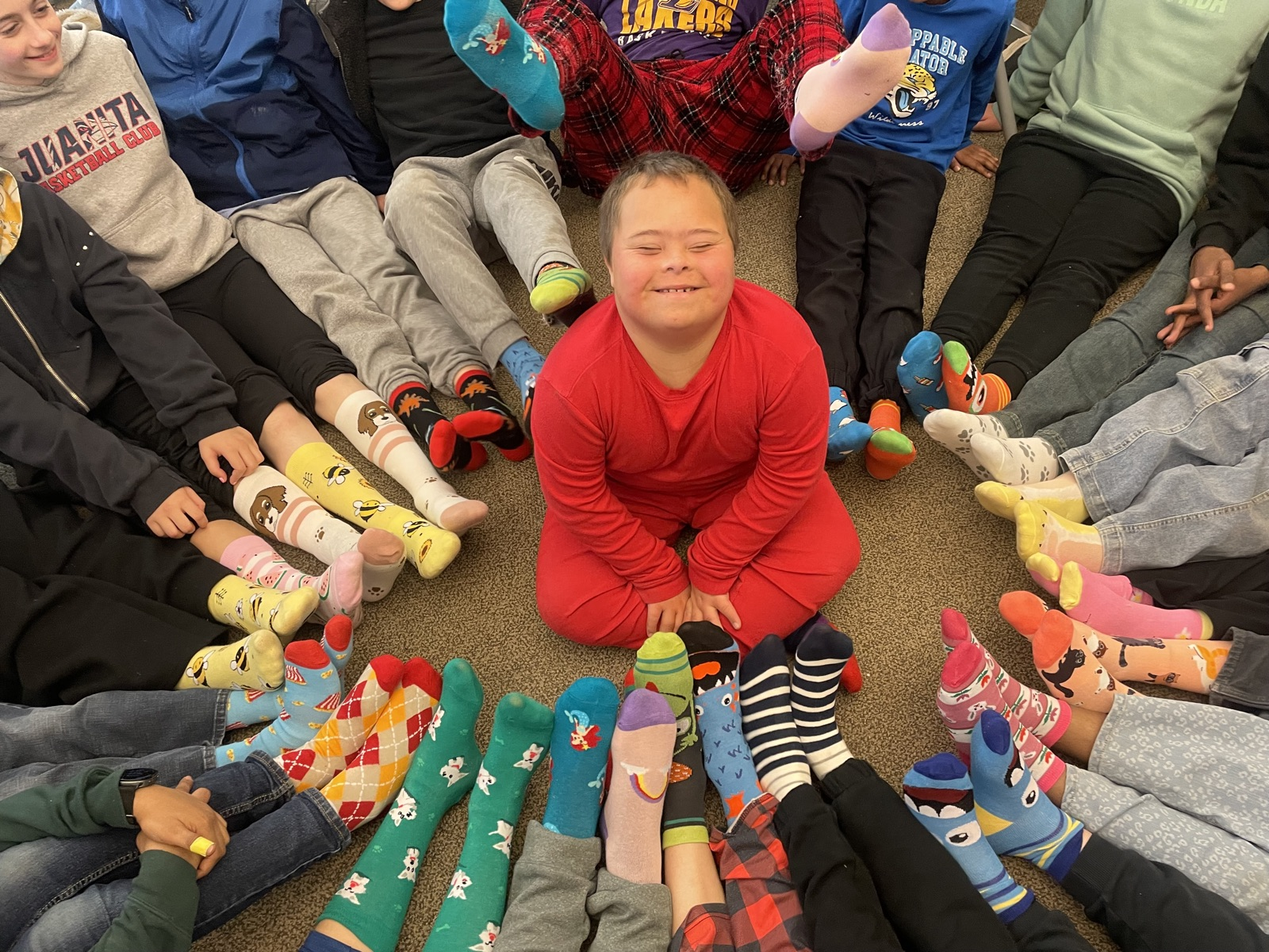
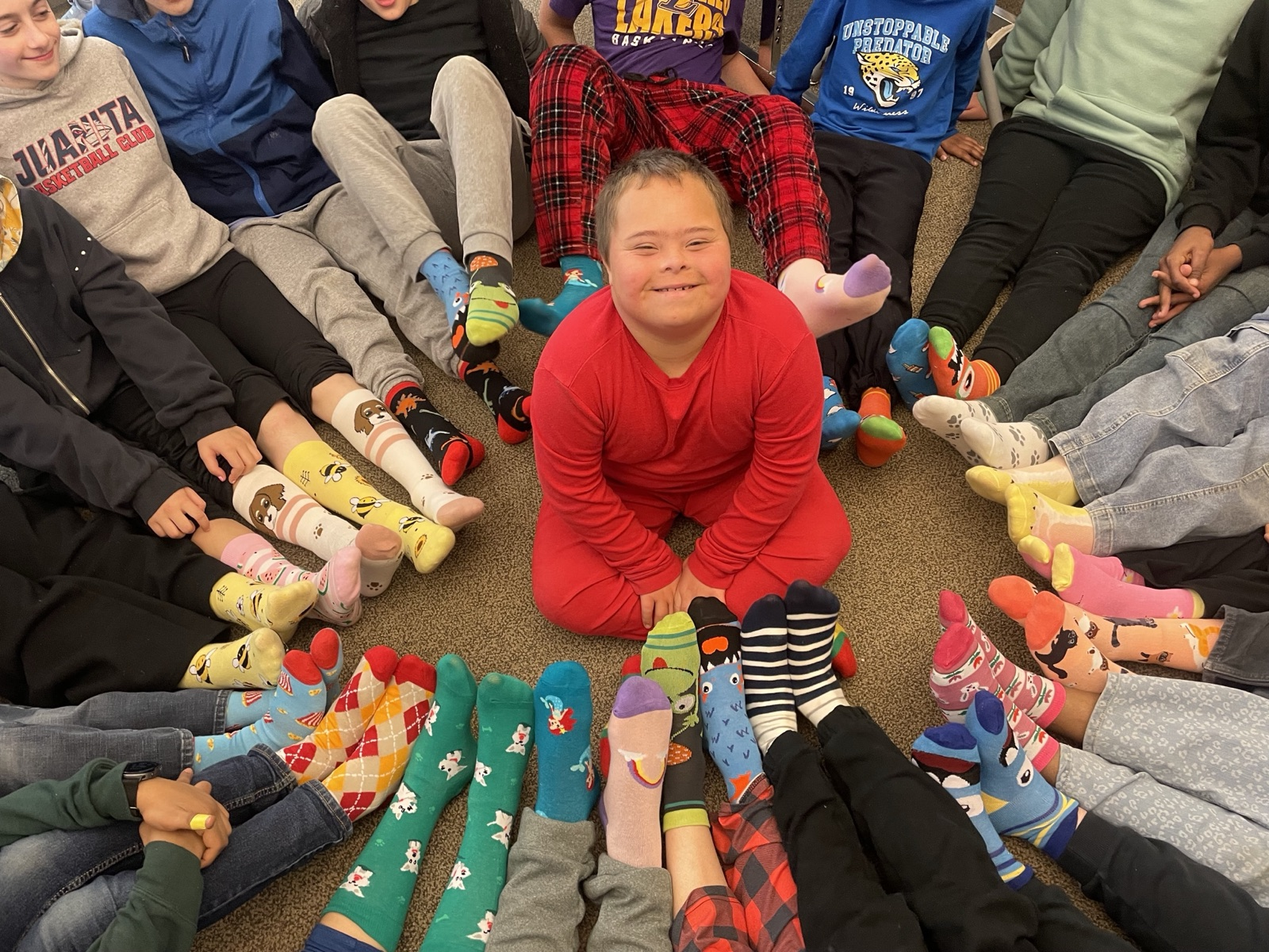
feat: joy jar copy, new hero photo, one-line ripples counter
- Jar overlay says joy instead of hope; the write form asks "Share your joyful moment!".
  Ids and selectors keep "hope" so the #share-a-hope card link still works. New test guards visible copy.
- socks-circle.jpg replaced with the new circle photo (IMG_4812, 1600x1200); also shows in the story and on Events.
- Hero counter reads "ripples of joy" and no longer wraps on phones (white-space: nowrap on .tap p).

diff --git a/index.html b/index.html
@@ -38,7 +38,7 @@
         <div id="sj-rings" class="rings" aria-hidden="true"></div>
         <button id="sj-heart" type="button" aria-label="Tap to send a ripple of joy"><img src="assets/img/heart.png" alt=""></button>
       </div>
-      <p aria-live="polite"><b id="sj-count">1,284</b> ripples of joy so far</p>
+      <p aria-live="polite"><b id="sj-count">1,284</b> ripples of joy</p>
     </div>
   </div>
 </section>
@@ -107,16 +107,16 @@ dialog.skin-3{background:white;border-radius:32px}.skin-3 .modal-header h1{font-
 
 </style>
 <div class="sjc-launch" hidden><button type="button" class="pill launch">I have something to share ↗</button></div>
-<dialog id="modal" class="mode-2 skin-1 flow-2" aria-labelledby="title"><button class="close" aria-label="Close hope jar">×</button><header class="modal-header"><h1 id="title">A little hope goes a long way.</h1><p id="subtitle">Leave a little hope. Find a little joy. There’s room for yours here.</p></header>
-<div class="content"><section class="jar-side" aria-label="Community hope jar"><h2>A jar full of possibility.</h2><p class="hint">Pick a heart. Discover a little hope.</p><div class="scene" id="scene"><svg class="jar-outline" viewBox="0 0 260 285" aria-hidden="true"><path d="M57 40 L57 25 Q58 19 68 19 L194 19 Q203 19 203 27 L203 40 Z M63 41 L63 62 C63 75 30 78 29 104 L29 238 Q29 269 60 269 L200 269 Q232 269 232 238 L232 104 C232 78 197 76 197 62 L197 41"/><path d="M54 30 L205 30"/><path class="shine" d="M44 112 L44 150 M44 163 L44 173"/></svg><div id="hearts"></div><span class="jar-wordmark">shared hopes</span></div><div class="readout" aria-live="polite" aria-atomic="true"><blockquote id="quote">“A world where everyone feels invited.”</blockquote><small id="attribution"></small><span class="mini-heart" aria-hidden="true">♥</span></div><button class="pill compose-toggle" id="compose">Add your hope ♥</button></section>
-<section class="write-side" aria-label="Write a hope"><div id="form-content"><h2>What’s your hope?</h2><p class="intro">For yourself, for someone you love, or for the world. Big or small, it belongs here.</p><form id="hope-form"><label class="field-label" for="person-name">Your name</label><input id="person-name" name="name" type="text" required maxlength="50" autocomplete="given-name" placeholder="First name or chosen name"><p class="name-help">This name will appear with your hope.</p><label class="field-label" for="hope">Your hope</label><div class="textarea-wrap"><textarea id="hope" maxlength="180" placeholder="Everyone finds a place they feel they belong." required></textarea><span class="counter" id="counter">0 / 180</span></div><p class="error" id="error" role="alert" hidden></p><button class="pill submit" type="submit">Add my hope to the jar ♥</button><p class="help">Keep it kind and leave out personal details.</p></form></div><div class="success" id="success" role="status" tabindex="-1" hidden><h3>Your hope has found a home. ♥</h3><p>Tap your heart to read your name and message.</p><button class="text-button" id="see-heart">Find my heart</button><button class="text-button" id="write-another">Leave another hope</button></div></section></div></dialog>
+<dialog id="modal" class="mode-2 skin-1 flow-2" aria-labelledby="title"><button class="close" aria-label="Close joy jar">×</button><header class="modal-header"><h1 id="title">A little joy goes a long way.</h1><p id="subtitle">Leave a little joy. Find a little more. There’s room for yours here.</p></header>
+<div class="content"><section class="jar-side" aria-label="Community joy jar"><h2>A jar full of possibility.</h2><p class="hint">Pick a heart. Discover a little joy.</p><div class="scene" id="scene"><svg class="jar-outline" viewBox="0 0 260 285" aria-hidden="true"><path d="M57 40 L57 25 Q58 19 68 19 L194 19 Q203 19 203 27 L203 40 Z M63 41 L63 62 C63 75 30 78 29 104 L29 238 Q29 269 60 269 L200 269 Q232 269 232 238 L232 104 C232 78 197 76 197 62 L197 41"/><path d="M54 30 L205 30"/><path class="shine" d="M44 112 L44 150 M44 163 L44 173"/></svg><div id="hearts"></div><span class="jar-wordmark">shared joy</span></div><div class="readout" aria-live="polite" aria-atomic="true"><blockquote id="quote">“A world where everyone feels invited.”</blockquote><small id="attribution"></small><span class="mini-heart" aria-hidden="true">♥</span></div><button class="pill compose-toggle" id="compose">Add your joy ♥</button></section>
+<section class="write-side" aria-label="Share a joyful moment"><div id="form-content"><h2>Share your joyful moment!</h2><p class="intro">For yourself, for someone you love, or for the world. Big or small, it belongs here.</p><form id="hope-form"><label class="field-label" for="person-name">Your name</label><input id="person-name" name="name" type="text" required maxlength="50" autocomplete="given-name" placeholder="First name or chosen name"><p class="name-help">This name will appear with your joyful moment.</p><label class="field-label" for="hope">Your joyful moment</label><div class="textarea-wrap"><textarea id="hope" maxlength="180" placeholder="Everyone finds a place they feel they belong." required></textarea><span class="counter" id="counter">0 / 180</span></div><p class="error" id="error" role="alert" hidden></p><button class="pill submit" type="submit">Add my joy to the jar ♥</button><p class="help">Keep it kind and leave out personal details.</p></form></div><div class="success" id="success" role="status" tabindex="-1" hidden><h3>Your joy has found a home. ♥</h3><p>Tap your heart to read your name and message.</p><button class="text-button" id="see-heart">Find my heart</button><button class="text-button" id="write-another">Share another joyful moment</button></div></section></div></dialog>
 `;
 
 const $=s=>root.querySelector(s);let mode=2,flow=2,lastHeart=null,opener=null,busy=false;// Starter hopes: add or edit {text, name} here. Leave name '' for no caption; use the writer's real name once they agree.
 const messages=[{text:'A world where everyone feels invited.',name:''},{text:'More places where we can just be ourselves.',name:''},{text:'A friend to share the little victories with.',name:''},{text:'That kindness becomes an everyday habit.',name:''},{text:'A seat at the table for everyone.',name:''},{text:'More time with the people who make us smile.',name:''},{text:'That someone feels less alone today.',name:''},{text:'A little courage to try something new.',name:''}];
 const path='<svg viewBox="0 0 100 100" aria-hidden="true"><path d="M49 90C40 78 5 51 9 28C13 4 36 9 48 28C62 4 86 5 92 25C100 49 65 78 49 90Z"/></svg>';const spots=[[49,85,-14],[105,81,9],[158,92,18],[64,135,13],[125,137,-15],[43,189,-12],[101,193,9],[159,187,17]];
 function showMessage(i){$('#quote').textContent='“'+messages[i].text+'”';$('#attribution').textContent=messages[i].name||'';root.querySelectorAll('.heart').forEach(b=>b.setAttribute('aria-pressed',Number(b.dataset.index)===i));}
-function addHeart(i,animate=false){let p=spots[i]||[57+((i-8)%3)*52,111+Math.floor((i-8)%6/3)*60,((i%3)-1)*15];let b=document.createElement('button');b.type='button';b.className='heart'+(animate?' new':'');b.dataset.index=i;b.style.cssText=`left:${p[0]}px;top:${p[1]}px;--x:${p[0]}px;--y:${p[1]}px;--r:${p[2]}deg`;b.innerHTML=path;b.setAttribute('aria-label',messages[i].name?'Read the hope from '+messages[i].name:'Read community hope '+(i+1));b.setAttribute('aria-pressed','false');b.onclick=()=>showMessage(i);$('#hearts').append(b);return b}messages.forEach((m,i)=>addHeart(i));
+function addHeart(i,animate=false){let p=spots[i]||[57+((i-8)%3)*52,111+Math.floor((i-8)%6/3)*60,((i%3)-1)*15];let b=document.createElement('button');b.type='button';b.className='heart'+(animate?' new':'');b.dataset.index=i;b.style.cssText=`left:${p[0]}px;top:${p[1]}px;--x:${p[0]}px;--y:${p[1]}px;--r:${p[2]}deg`;b.innerHTML=path;b.setAttribute('aria-label',messages[i].name?'Read the joyful moment from '+messages[i].name:'Read community joyful moment '+(i+1));b.setAttribute('aria-pressed','false');b.onclick=()=>showMessage(i);$('#hearts').append(b);return b}messages.forEach((m,i)=>addHeart(i));
 function openModal(source){if(!$('#modal').open){opener=source;$('#modal').showModal();}$('.close').focus()}
 root.querySelectorAll('.launch').forEach(b=>b.onclick=()=>openModal(b));$('.close').onclick=()=>$('#modal').close();$('#modal').addEventListener('close',()=>{opener?.focus()});$('#modal').addEventListener('click',e=>{if(e.target===$('#modal')){let r=$('#modal').getBoundingClientRect();if(e.clientX<r.left||e.clientX>r.right||e.clientY<r.top||e.clientY>r.bottom)$('#modal').close()}});
 
@@ -141,13 +141,13 @@ async function dropIntoJar(heart){
 $('#hope-form').onsubmit=async e=>{
  e.preventDefault();if(busy)return;
  const text=$('#hope').value.trim(),name=$('#person-name').value.trim();
- if(!name||!text){$('#error').textContent=!name?'Please enter a name to go with your hope.':'Please write a hope before adding your heart.';$('#error').hidden=false;(!name?$('#person-name'):$('#hope')).focus();return}
+ if(!name||!text){$('#error').textContent=!name?'Please enter a name to go with your joyful moment.':'Please share a joyful moment before adding your heart.';$('#error').hidden=false;(!name?$('#person-name'):$('#hope')).focus();return}
  busy=true;$('.submit').disabled=true;
  messages.push({text,name});lastHeart=messages.length-1;
  $('#form-content').hidden=true;$('#success').hidden=true;
  $('#modal').classList.add('celebrating');
  if(flow===1)$('#modal').classList.remove('composing');
- $('#quote').textContent='A little more hope is on its way…';$('#attribution').textContent='Adding your heart';
+ $('#quote').textContent='A little more joy is on its way…';$('#attribution').textContent='Adding your heart';
  const heart=addHeart(lastHeart,false);heart.style.visibility='hidden';
  await new Promise(resolve=>requestAnimationFrame(()=>requestAnimationFrame(resolve)));
  $('#scene').scrollIntoView({block:'center',behavior:'instant'});

diff --git a/home-page/5-your-turn-block.html b/home-page/5-your-turn-block.html
@@ -54,16 +54,16 @@ dialog.skin-3{background:white;border-radius:32px}.skin-3 .modal-header h1{font-
 
 </style>
 <div class="sjc-launch" hidden><button type="button" class="pill launch">I have something to share ↗</button></div>
-<dialog id="modal" class="mode-2 skin-1 flow-2" aria-labelledby="title"><button class="close" aria-label="Close hope jar">×</button><header class="modal-header"><h1 id="title">A little hope goes a long way.</h1><p id="subtitle">Leave a little hope. Find a little joy. There’s room for yours here.</p></header>
-<div class="content"><section class="jar-side" aria-label="Community hope jar"><h2>A jar full of possibility.</h2><p class="hint">Pick a heart. Discover a little hope.</p><div class="scene" id="scene"><svg class="jar-outline" viewBox="0 0 260 285" aria-hidden="true"><path d="M57 40 L57 25 Q58 19 68 19 L194 19 Q203 19 203 27 L203 40 Z M63 41 L63 62 C63 75 30 78 29 104 L29 238 Q29 269 60 269 L200 269 Q232 269 232 238 L232 104 C232 78 197 76 197 62 L197 41"/><path d="M54 30 L205 30"/><path class="shine" d="M44 112 L44 150 M44 163 L44 173"/></svg><div id="hearts"></div><span class="jar-wordmark">shared hopes</span></div><div class="readout" aria-live="polite" aria-atomic="true"><blockquote id="quote">“A world where everyone feels invited.”</blockquote><small id="attribution"></small><span class="mini-heart" aria-hidden="true">♥</span></div><button class="pill compose-toggle" id="compose">Add your hope ♥</button></section>
-<section class="write-side" aria-label="Write a hope"><div id="form-content"><h2>What’s your hope?</h2><p class="intro">For yourself, for someone you love, or for the world. Big or small, it belongs here.</p><form id="hope-form"><label class="field-label" for="person-name">Your name</label><input id="person-name" name="name" type="text" required maxlength="50" autocomplete="given-name" placeholder="First name or chosen name"><p class="name-help">This name will appear with your hope.</p><label class="field-label" for="hope">Your hope</label><div class="textarea-wrap"><textarea id="hope" maxlength="180" placeholder="Everyone finds a place they feel they belong." required></textarea><span class="counter" id="counter">0 / 180</span></div><p class="error" id="error" role="alert" hidden></p><button class="pill submit" type="submit">Add my hope to the jar ♥</button><p class="help">Keep it kind and leave out personal details.</p></form></div><div class="success" id="success" role="status" tabindex="-1" hidden><h3>Your hope has found a home. ♥</h3><p>Tap your heart to read your name and message.</p><button class="text-button" id="see-heart">Find my heart</button><button class="text-button" id="write-another">Leave another hope</button></div></section></div></dialog>
+<dialog id="modal" class="mode-2 skin-1 flow-2" aria-labelledby="title"><button class="close" aria-label="Close joy jar">×</button><header class="modal-header"><h1 id="title">A little joy goes a long way.</h1><p id="subtitle">Leave a little joy. Find a little more. There’s room for yours here.</p></header>
+<div class="content"><section class="jar-side" aria-label="Community joy jar"><h2>A jar full of possibility.</h2><p class="hint">Pick a heart. Discover a little joy.</p><div class="scene" id="scene"><svg class="jar-outline" viewBox="0 0 260 285" aria-hidden="true"><path d="M57 40 L57 25 Q58 19 68 19 L194 19 Q203 19 203 27 L203 40 Z M63 41 L63 62 C63 75 30 78 29 104 L29 238 Q29 269 60 269 L200 269 Q232 269 232 238 L232 104 C232 78 197 76 197 62 L197 41"/><path d="M54 30 L205 30"/><path class="shine" d="M44 112 L44 150 M44 163 L44 173"/></svg><div id="hearts"></div><span class="jar-wordmark">shared joy</span></div><div class="readout" aria-live="polite" aria-atomic="true"><blockquote id="quote">“A world where everyone feels invited.”</blockquote><small id="attribution"></small><span class="mini-heart" aria-hidden="true">♥</span></div><button class="pill compose-toggle" id="compose">Add your joy ♥</button></section>
+<section class="write-side" aria-label="Share a joyful moment"><div id="form-content"><h2>Share your joyful moment!</h2><p class="intro">For yourself, for someone you love, or for the world. Big or small, it belongs here.</p><form id="hope-form"><label class="field-label" for="person-name">Your name</label><input id="person-name" name="name" type="text" required maxlength="50" autocomplete="given-name" placeholder="First name or chosen name"><p class="name-help">This name will appear with your joyful moment.</p><label class="field-label" for="hope">Your joyful moment</label><div class="textarea-wrap"><textarea id="hope" maxlength="180" placeholder="Everyone finds a place they feel they belong." required></textarea><span class="counter" id="counter">0 / 180</span></div><p class="error" id="error" role="alert" hidden></p><button class="pill submit" type="submit">Add my joy to the jar ♥</button><p class="help">Keep it kind and leave out personal details.</p></form></div><div class="success" id="success" role="status" tabindex="-1" hidden><h3>Your joy has found a home. ♥</h3><p>Tap your heart to read your name and message.</p><button class="text-button" id="see-heart">Find my heart</button><button class="text-button" id="write-another">Share another joyful moment</button></div></section></div></dialog>
 `;
 
 const $=s=>root.querySelector(s);let mode=2,flow=2,lastHeart=null,opener=null,busy=false;// Starter hopes: add or edit {text, name} here. Leave name '' for no caption; use the writer's real name once they agree.
 const messages=[{text:'A world where everyone feels invited.',name:''},{text:'More places where we can just be ourselves.',name:''},{text:'A friend to share the little victories with.',name:''},{text:'That kindness becomes an everyday habit.',name:''},{text:'A seat at the table for everyone.',name:''},{text:'More time with the people who make us smile.',name:''},{text:'That someone feels less alone today.',name:''},{text:'A little courage to try something new.',name:''}];
 const path='<svg viewBox="0 0 100 100" aria-hidden="true"><path d="M49 90C40 78 5 51 9 28C13 4 36 9 48 28C62 4 86 5 92 25C100 49 65 78 49 90Z"/></svg>';const spots=[[49,85,-14],[105,81,9],[158,92,18],[64,135,13],[125,137,-15],[43,189,-12],[101,193,9],[159,187,17]];
 function showMessage(i){$('#quote').textContent='“'+messages[i].text+'”';$('#attribution').textContent=messages[i].name||'';root.querySelectorAll('.heart').forEach(b=>b.setAttribute('aria-pressed',Number(b.dataset.index)===i));}
-function addHeart(i,animate=false){let p=spots[i]||[57+((i-8)%3)*52,111+Math.floor((i-8)%6/3)*60,((i%3)-1)*15];let b=document.createElement('button');b.type='button';b.className='heart'+(animate?' new':'');b.dataset.index=i;b.style.cssText=`left:${p[0]}px;top:${p[1]}px;--x:${p[0]}px;--y:${p[1]}px;--r:${p[2]}deg`;b.innerHTML=path;b.setAttribute('aria-label',messages[i].name?'Read the hope from '+messages[i].name:'Read community hope '+(i+1));b.setAttribute('aria-pressed','false');b.onclick=()=>showMessage(i);$('#hearts').append(b);return b}messages.forEach((m,i)=>addHeart(i));
+function addHeart(i,animate=false){let p=spots[i]||[57+((i-8)%3)*52,111+Math.floor((i-8)%6/3)*60,((i%3)-1)*15];let b=document.createElement('button');b.type='button';b.className='heart'+(animate?' new':'');b.dataset.index=i;b.style.cssText=`left:${p[0]}px;top:${p[1]}px;--x:${p[0]}px;--y:${p[1]}px;--r:${p[2]}deg`;b.innerHTML=path;b.setAttribute('aria-label',messages[i].name?'Read the joyful moment from '+messages[i].name:'Read community joyful moment '+(i+1));b.setAttribute('aria-pressed','false');b.onclick=()=>showMessage(i);$('#hearts').append(b);return b}messages.forEach((m,i)=>addHeart(i));
 function openModal(source){if(!$('#modal').open){opener=source;$('#modal').showModal();}$('.close').focus()}
 root.querySelectorAll('.launch').forEach(b=>b.onclick=()=>openModal(b));$('.close').onclick=()=>$('#modal').close();$('#modal').addEventListener('close',()=>{opener?.focus()});$('#modal').addEventListener('click',e=>{if(e.target===$('#modal')){let r=$('#modal').getBoundingClientRect();if(e.clientX<r.left||e.clientX>r.right||e.clientY<r.top||e.clientY>r.bottom)$('#modal').close()}});
 
@@ -88,13 +88,13 @@ async function dropIntoJar(heart){
 $('#hope-form').onsubmit=async e=>{
  e.preventDefault();if(busy)return;
  const text=$('#hope').value.trim(),name=$('#person-name').value.trim();
- if(!name||!text){$('#error').textContent=!name?'Please enter a name to go with your hope.':'Please write a hope before adding your heart.';$('#error').hidden=false;(!name?$('#person-name'):$('#hope')).focus();return}
+ if(!name||!text){$('#error').textContent=!name?'Please enter a name to go with your joyful moment.':'Please share a joyful moment before adding your heart.';$('#error').hidden=false;(!name?$('#person-name'):$('#hope')).focus();return}
  busy=true;$('.submit').disabled=true;
  messages.push({text,name});lastHeart=messages.length-1;
  $('#form-content').hidden=true;$('#success').hidden=true;
  $('#modal').classList.add('celebrating');
  if(flow===1)$('#modal').classList.remove('composing');
- $('#quote').textContent='A little more hope is on its way…';$('#attribution').textContent='Adding your heart';
+ $('#quote').textContent='A little more joy is on its way…';$('#attribution').textContent='Adding your heart';
  const heart=addHeart(lastHeart,false);heart.style.visibility='hidden';
  await new Promise(resolve=>requestAnimationFrame(()=>requestAnimationFrame(resolve)));
  $('#scene').scrollIntoView({block:'center',behavior:'instant'});

diff --git a/assets/hope-jar.html b/assets/hope-jar.html
@@ -27,16 +27,16 @@ dialog.skin-3{background:white;border-radius:32px}.skin-3 .modal-header h1{font-
 
 </style>
 <div class="sjc-launch"><button type="button" class="pill launch">I have something to share ↗</button></div>
-<dialog id="modal" class="mode-2 skin-1 flow-2" aria-labelledby="title"><button class="close" aria-label="Close hope jar">×</button><header class="modal-header"><h1 id="title">A little hope goes a long way.</h1><p id="subtitle">Leave a little hope. Find a little joy. There’s room for yours here.</p></header>
-<div class="content"><section class="jar-side" aria-label="Community hope jar"><h2>A jar full of possibility.</h2><p class="hint">Pick a heart. Discover a little hope.</p><div class="scene" id="scene"><svg class="jar-outline" viewBox="0 0 260 285" aria-hidden="true"><path d="M57 40 L57 25 Q58 19 68 19 L194 19 Q203 19 203 27 L203 40 Z M63 41 L63 62 C63 75 30 78 29 104 L29 238 Q29 269 60 269 L200 269 Q232 269 232 238 L232 104 C232 78 197 76 197 62 L197 41"/><path d="M54 30 L205 30"/><path class="shine" d="M44 112 L44 150 M44 163 L44 173"/></svg><div id="hearts"></div><span class="jar-wordmark">shared hopes</span></div><div class="readout" aria-live="polite" aria-atomic="true"><blockquote id="quote">“A world where everyone feels invited.”</blockquote><small id="attribution"></small><span class="mini-heart" aria-hidden="true">♥</span></div><button class="pill compose-toggle" id="compose">Add your hope ♥</button></section>
-<section class="write-side" aria-label="Write a hope"><div id="form-content"><h2>What’s your hope?</h2><p class="intro">For yourself, for someone you love, or for the world. Big or small, it belongs here.</p><form id="hope-form"><label class="field-label" for="person-name">Your name</label><input id="person-name" name="name" type="text" required maxlength="50" autocomplete="given-name" placeholder="First name or chosen name"><p class="name-help">This name will appear with your hope.</p><label class="field-label" for="hope">Your hope</label><div class="textarea-wrap"><textarea id="hope" maxlength="180" placeholder="Everyone finds a place they feel they belong." required></textarea><span class="counter" id="counter">0 / 180</span></div><p class="error" id="error" role="alert" hidden></p><button class="pill submit" type="submit">Add my hope to the jar ♥</button><p class="help">Keep it kind and leave out personal details.</p></form></div><div class="success" id="success" role="status" tabindex="-1" hidden><h3>Your hope has found a home. ♥</h3><p>Tap your heart to read your name and message.</p><button class="text-button" id="see-heart">Find my heart</button><button class="text-button" id="write-another">Leave another hope</button></div></section></div></dialog>
+<dialog id="modal" class="mode-2 skin-1 flow-2" aria-labelledby="title"><button class="close" aria-label="Close joy jar">×</button><header class="modal-header"><h1 id="title">A little joy goes a long way.</h1><p id="subtitle">Leave a little joy. Find a little more. There’s room for yours here.</p></header>
+<div class="content"><section class="jar-side" aria-label="Community joy jar"><h2>A jar full of possibility.</h2><p class="hint">Pick a heart. Discover a little joy.</p><div class="scene" id="scene"><svg class="jar-outline" viewBox="0 0 260 285" aria-hidden="true"><path d="M57 40 L57 25 Q58 19 68 19 L194 19 Q203 19 203 27 L203 40 Z M63 41 L63 62 C63 75 30 78 29 104 L29 238 Q29 269 60 269 L200 269 Q232 269 232 238 L232 104 C232 78 197 76 197 62 L197 41"/><path d="M54 30 L205 30"/><path class="shine" d="M44 112 L44 150 M44 163 L44 173"/></svg><div id="hearts"></div><span class="jar-wordmark">shared joy</span></div><div class="readout" aria-live="polite" aria-atomic="true"><blockquote id="quote">“A world where everyone feels invited.”</blockquote><small id="attribution"></small><span class="mini-heart" aria-hidden="true">♥</span></div><button class="pill compose-toggle" id="compose">Add your joy ♥</button></section>
+<section class="write-side" aria-label="Share a joyful moment"><div id="form-content"><h2>Share your joyful moment!</h2><p class="intro">For yourself, for someone you love, or for the world. Big or small, it belongs here.</p><form id="hope-form"><label class="field-label" for="person-name">Your name</label><input id="person-name" name="name" type="text" required maxlength="50" autocomplete="given-name" placeholder="First name or chosen name"><p class="name-help">This name will appear with your joyful moment.</p><label class="field-label" for="hope">Your joyful moment</label><div class="textarea-wrap"><textarea id="hope" maxlength="180" placeholder="Everyone finds a place they feel they belong." required></textarea><span class="counter" id="counter">0 / 180</span></div><p class="error" id="error" role="alert" hidden></p><button class="pill submit" type="submit">Add my joy to the jar ♥</button><p class="help">Keep it kind and leave out personal details.</p></form></div><div class="success" id="success" role="status" tabindex="-1" hidden><h3>Your joy has found a home. ♥</h3><p>Tap your heart to read your name and message.</p><button class="text-button" id="see-heart">Find my heart</button><button class="text-button" id="write-another">Share another joyful moment</button></div></section></div></dialog>
 `;
 
 const $=s=>root.querySelector(s);let mode=2,flow=2,lastHeart=null,opener=null,busy=false;// Starter hopes: add or edit {text, name} here. Leave name '' for no caption; use the writer's real name once they agree.
 const messages=[{text:'A world where everyone feels invited.',name:''},{text:'More places where we can just be ourselves.',name:''},{text:'A friend to share the little victories with.',name:''},{text:'That kindness becomes an everyday habit.',name:''},{text:'A seat at the table for everyone.',name:''},{text:'More time with the people who make us smile.',name:''},{text:'That someone feels less alone today.',name:''},{text:'A little courage to try something new.',name:''}];
 const path='<svg viewBox="0 0 100 100" aria-hidden="true"><path d="M49 90C40 78 5 51 9 28C13 4 36 9 48 28C62 4 86 5 92 25C100 49 65 78 49 90Z"/></svg>';const spots=[[49,85,-14],[105,81,9],[158,92,18],[64,135,13],[125,137,-15],[43,189,-12],[101,193,9],[159,187,17]];
 function showMessage(i){$('#quote').textContent='“'+messages[i].text+'”';$('#attribution').textContent=messages[i].name||'';root.querySelectorAll('.heart').forEach(b=>b.setAttribute('aria-pressed',Number(b.dataset.index)===i));}
-function addHeart(i,animate=false){let p=spots[i]||[57+((i-8)%3)*52,111+Math.floor((i-8)%6/3)*60,((i%3)-1)*15];let b=document.createElement('button');b.type='button';b.className='heart'+(animate?' new':'');b.dataset.index=i;b.style.cssText=`left:${p[0]}px;top:${p[1]}px;--x:${p[0]}px;--y:${p[1]}px;--r:${p[2]}deg`;b.innerHTML=path;b.setAttribute('aria-label',messages[i].name?'Read the hope from '+messages[i].name:'Read community hope '+(i+1));b.setAttribute('aria-pressed','false');b.onclick=()=>showMessage(i);$('#hearts').append(b);return b}messages.forEach((m,i)=>addHeart(i));
+function addHeart(i,animate=false){let p=spots[i]||[57+((i-8)%3)*52,111+Math.floor((i-8)%6/3)*60,((i%3)-1)*15];let b=document.createElement('button');b.type='button';b.className='heart'+(animate?' new':'');b.dataset.index=i;b.style.cssText=`left:${p[0]}px;top:${p[1]}px;--x:${p[0]}px;--y:${p[1]}px;--r:${p[2]}deg`;b.innerHTML=path;b.setAttribute('aria-label',messages[i].name?'Read the joyful moment from '+messages[i].name:'Read community joyful moment '+(i+1));b.setAttribute('aria-pressed','false');b.onclick=()=>showMessage(i);$('#hearts').append(b);return b}messages.forEach((m,i)=>addHeart(i));
 function openModal(source){if(!$('#modal').open){opener=source;$('#modal').showModal();}$('.close').focus()}
 root.querySelectorAll('.launch').forEach(b=>b.onclick=()=>openModal(b));$('.close').onclick=()=>$('#modal').close();$('#modal').addEventListener('close',()=>{opener?.focus()});$('#modal').addEventListener('click',e=>{if(e.target===$('#modal')){let r=$('#modal').getBoundingClientRect();if(e.clientX<r.left||e.clientX>r.right||e.clientY<r.top||e.clientY>r.bottom)$('#modal').close()}});
 
@@ -61,13 +61,13 @@ async function dropIntoJar(heart){
 $('#hope-form').onsubmit=async e=>{
  e.preventDefault();if(busy)return;
  const text=$('#hope').value.trim(),name=$('#person-name').value.trim();
- if(!name||!text){$('#error').textContent=!name?'Please enter a name to go with your hope.':'Please write a hope before adding your heart.';$('#error').hidden=false;(!name?$('#person-name'):$('#hope')).focus();return}
+ if(!name||!text){$('#error').textContent=!name?'Please enter a name to go with your joyful moment.':'Please share a joyful moment before adding your heart.';$('#error').hidden=false;(!name?$('#person-name'):$('#hope')).focus();return}
  busy=true;$('.submit').disabled=true;
  messages.push({text,name});lastHeart=messages.length-1;
  $('#form-content').hidden=true;$('#success').hidden=true;
  $('#modal').classList.add('celebrating');
  if(flow===1)$('#modal').classList.remove('composing');
- $('#quote').textContent='A little more hope is on its way…';$('#attribution').textContent='Adding your heart';
+ $('#quote').textContent='A little more joy is on its way…';$('#attribution').textContent='Adding your heart';
  const heart=addHeart(lastHeart,false);heart.style.visibility='hidden';
  await new Promise(resolve=>requestAnimationFrame(()=>requestAnimationFrame(resolve)));
  $('#scene').scrollIntoView({block:'center',behavior:'instant'});

diff --git a/squarespace/heart-block.html b/squarespace/heart-block.html
@@ -1,7 +1,7 @@
 <!--
   SNIPPET:        Tap-the-heart (heart button, rings, counter)
   WHAT IT DOES:   Shows a yellow heart. Each tap sends a ring across the screen and adds 1 to
-                  the "ripples of joy so far" number. The number is made up (see footer-injection.html).
+                  the "ripples of joy" number. The number is made up (see footer-injection.html).
   WHERE TO PASTE: A Code Block in the section where the heart should appear. Set the block's mode to HTML.
   NEEDS:          footer-injection.html installed once (Pages > Custom Code > Code Injection > Footer).
                   Without it the heart still shows but does nothing.
@@ -34,7 +34,7 @@
   animation: ring-out 1.8s ease-out forwards;
 }
 @keyframes ring-out { to { transform: translate(-50%, -50%) scale(6); opacity: 0; } }
-/* The "ripples of joy so far" line */
+/* The "ripples of joy" line */
 .counter { margin: 12px 0 0; color: var(--muted); font-size: 1.05rem; }
 .counter span { font-weight: 600; color: var(--ink); }
 </style>
@@ -49,5 +49,5 @@
 
 <!-- The counter line. aria-live lets screen readers announce the new number -->
 <p class="counter" aria-live="polite" style="text-align:center">
-  <span id="sj-count">1,284</span> ripples of joy so far
+  <span id="sj-count">1,284</span> ripples of joy
 </p>

diff --git a/home-page/1-header-injection.html b/home-page/1-header-injection.html
@@ -136,7 +136,7 @@ body:has(.sj-home) #header.tucked { transform: translateY(-100%); }
 .tap b { display: inline-block; }
 .tap b.bump { animation: bump 0.25s ease-out; }
 @keyframes bump { 0% { transform: translateY(0); } 40% { transform: translateY(-6px) scale(1.12); } 100% { transform: translateY(0); } }
-.tap p { margin: 0; font-size: 1rem; color: var(--muted); text-align: left; line-height: 1.2; }
+.tap p { margin: 0; font-size: 1rem; color: var(--muted); text-align: left; line-height: 1.2; white-space: nowrap; }
 .tap b { color: var(--ink); }
 
 /* ---- 2. pinned story: the stage stays while photos and lines change with scroll ---- */

diff --git a/assets/home.css b/assets/home.css
@@ -40,7 +40,7 @@
 .tap b { display: inline-block; }
 .tap b.bump { animation: bump 0.25s ease-out; }
 @keyframes bump { 0% { transform: translateY(0); } 40% { transform: translateY(-6px) scale(1.12); } 100% { transform: translateY(0); } }
-.tap p { margin: 0; font-size: 1rem; color: var(--muted); text-align: left; line-height: 1.2; }
+.tap p { margin: 0; font-size: 1rem; color: var(--muted); text-align: left; line-height: 1.2; white-space: nowrap; }
 .tap b { color: var(--ink); }
 
 /* ---- 2. pinned story: the stage stays while photos and lines change with scroll ---- */

diff --git a/home-page/3-hero-block.html b/home-page/3-hero-block.html
@@ -18,7 +18,7 @@
         <div id="sj-rings" class="rings" aria-hidden="true"></div>
         <button id="sj-heart" type="button" aria-label="Tap to send a ripple of joy"><img src="https://images.squarespace-cdn.com/content/v1/6aab64d440806136e6ed3821/cbb418f5-0516-48e5-b071-4673e3ad00b2/heart.png" alt=""></button>
       </div>
-      <p aria-live="polite"><b id="sj-count">1,284</b> ripples of joy so far</p>
+      <p aria-live="polite"><b id="sj-count">1,284</b> ripples of joy</p>
     </div>
   </div>
 </section>

diff --git a/assets/styles.css b/assets/styles.css
@@ -104,7 +104,7 @@ a:focus-visible, button:focus-visible, input:focus-visible, textarea:focus-visib
   animation: ring-out 1.8s ease-out forwards;
 }
 @keyframes ring-out { to { transform: translate(-50%, -50%) scale(6); opacity: 0; } }
-/* The "ripples of joy so far" line */
+/* The "ripples of joy" line */
 .counter { margin: 12px 0 0; color: var(--muted); font-size: 1.05rem; }
 .counter span { font-weight: 600; color: var(--ink); }
 /* snippet:heart:end */

diff --git a/build.py b/build.py
@@ -150,7 +150,7 @@ HOME_HERO = f"""<section class="hero">
         <div id="sj-rings" class="rings" aria-hidden="true"></div>
         <button id="sj-heart" type="button" aria-label="Tap to send a ripple of joy"><img src="assets/img/heart.png" alt=""></button>
       </div>
-      <p aria-live="polite"><b id="sj-count">{START_COUNT}</b> ripples of joy so far</p>
+      <p aria-live="polite"><b id="sj-count">{START_COUNT}</b> ripples of joy</p>
     </div>
   </div>
 </section>
@@ -390,7 +390,7 @@ GENERATED_NOTE = (
 HEART_BLOCK = """<!--
   SNIPPET:        Tap-the-heart (heart button, rings, counter)
   WHAT IT DOES:   Shows a yellow heart. Each tap sends a ring across the screen and adds 1 to
-                  the "ripples of joy so far" number. The number is made up (see footer-injection.html).
+                  the "ripples of joy" number. The number is made up (see footer-injection.html).
   WHERE TO PASTE: A Code Block in the section where the heart should appear. Set the block's mode to HTML.
   NEEDS:          footer-injection.html installed once (Pages > Custom Code > Code Injection > Footer).
                   Without it the heart still shows but does nothing.
@@ -414,7 +414,7 @@ __CSS__
 
 <!-- The counter line. aria-live lets screen readers announce the new number -->
 <p class="counter" aria-live="polite" style="text-align:center">
-  <span id="sj-count">__COUNT__</span> ripples of joy so far
+  <span id="sj-count">__COUNT__</span> ripples of joy
 </p>
 """
 

diff --git a/tests/test_build.py b/tests/test_build.py
@@ -187,6 +187,13 @@ class HomeTests(unittest.TestCase):
         # starter hopes live in one editable list, each with a text and a name (name may stay empty)
         self.assertRegex(src, r"const messages=\[\{text:'[^']+',name:'[^']*'\}")
 
+    def test_jar_copy_says_joy_not_hope(self):
+        src = (ROOT / "assets" / "hope-jar.html").read_text()
+        self.assertIn("Share your joyful moment!", src)
+        # ids, selectors and comments may keep "hope"; nothing a visitor sees or hears may
+        visible = re.sub(r"<script>|//[^\n]*|data-sjc-hope-widget|#share-a-hope|[#'\"]hope(-form)?['\"\]]|id=\"hope(-form)?\"|for=\"hope\"", "", src)
+        self.assertNotRegex(visible, r"(?i)hope")
+
     def test_every_link_card_has_a_photo_so_none_is_a_blank_white_block(self):
         cards = re.findall(r'<a class="card"[^>]*>(.*?)</a>', self.html, re.S)
         self.assertEqual(len(cards), 4)

diff --git a/squarespace/README.md b/squarespace/README.md
@@ -9,7 +9,7 @@ Paste-ready code for the Spread Joy Collective Squarespace site. Open a file, co
 | File | What it is | Where to paste | Needs |
 |---|---|---|---|
 | `footer-injection.html` | The site script: counter, kindness ideas, click handling | Pages > Custom Code > Code Injection > **Footer** (once for the whole site) | Core, Plus or Advanced plan |
-| `heart-block.html` | Tap-the-heart: heart button, rings, "ripples of joy so far" counter | A **Code Block** (mode HTML) where the heart goes | `footer-injection.html`; replace `{{HEART_IMAGE_URL}}` |
+| `heart-block.html` | Tap-the-heart: heart button, rings, "ripples of joy" counter | A **Code Block** (mode HTML) where the heart goes | `footer-injection.html`; replace `{{HEART_IMAGE_URL}}` |
 | `surprise-block.html` | "Surprise me" button and idea line | A **Code Block** (mode HTML) in the "Your turn" section | `footer-injection.html` |
 
 ## Install order
